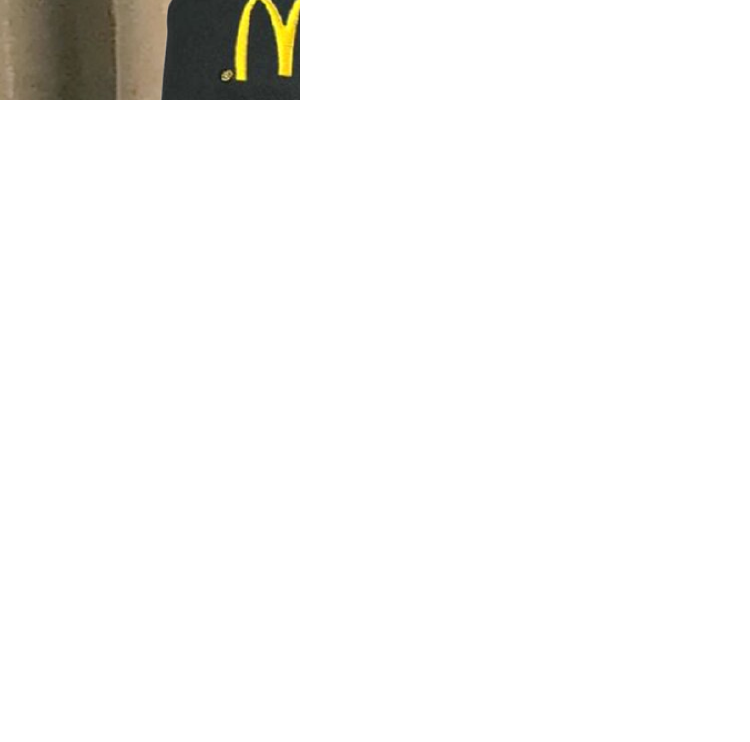
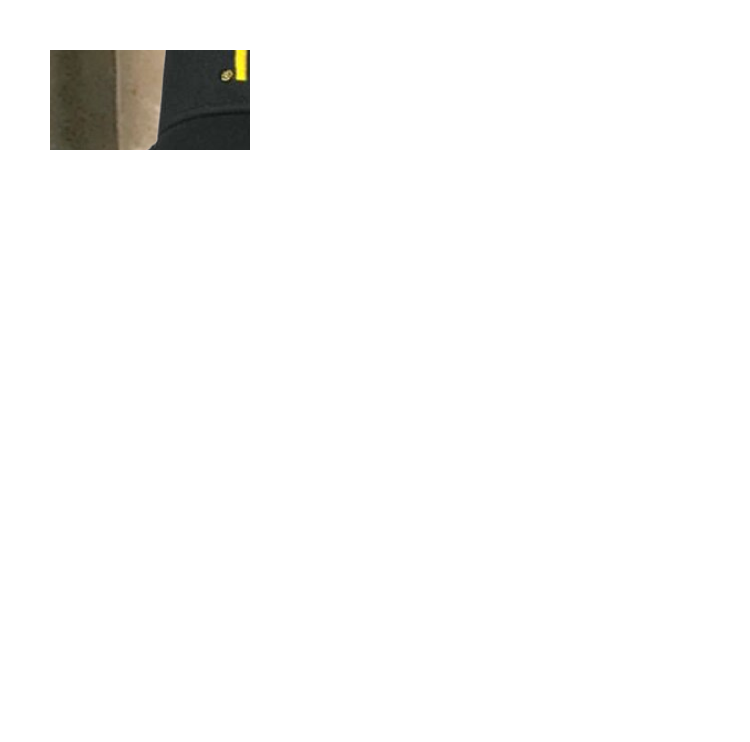
Fixed rectangle clip

Changed region(s): [[0.0, 0.0, 0.3987, 0.217]]

diff --git a/website/html/index.html b/website/html/index.html
@@ -4,26 +4,19 @@
 		<meta charset="UTF-8" />
 		<meta http-equiv="X-UA-Compatible" content="IE=edge" />
 		<meta name="viewport" content="width=device-width, initial-scale=1.0" />
+
 		<script defer src="/js/request.js"></script>
 		<script defer src="/js/editor.js"></script>
+
+		<link rel="stylesheet" href="/css/main.css" />
 		<link rel="stylesheet" href="/css/editor.css" />
+
 		<title>Document</title>
 		<link rel="preconnect" href="https://fonts.googleapis.com" />
 		<link rel="preconnect" href="https://fonts.gstatic.com" crossorigin />
 		<link href="https://fonts.googleapis.com/css2?family=Poppins:wght@500&display=swap" rel="stylesheet" />
 	</head>
 	<body>
-		<img id="img" src="" alt="" />
-		<form action="" id="form" onsubmit="return false">
-			<input name="Image" onchange="getImage()" type="file" id="img" accept="image/*" />
-			<input type="submit" onclick="getMaskedImage()" />
-		</form>
-
-		<div id="editor" class="editor">
-			<img src="" alt="" class="background" />
-			<div class="visualizer"></div>
-		</div>
-
 		<!-- context menu -->
 		<div class="context-menu">
 			<p class="editor-remove" onclick="removeShape();">Remove</p>
@@ -31,6 +24,22 @@
 				<label for="opacity">Opcaity:</label>
 				<input name="opacity" type="range" oninput="changeOpacity(this);" />
 			</div>
+		</div>
+
+		<form action="" id="form" class="center" onsubmit="return false">
+			<input name="Image" onchange="getImage()" type="file" id="img" accept="image/*" />
+			<input type="submit" onclick="getMaskedImage()" />
+		</form>
+
+		<div class="editor-container center">
+			<div id="editor" class="editor">
+				<img src="" alt="" class="background" />
+				<div class="visualizer"></div>
+			</div>
+		</div>
+
+		<div class="preview center">
+			<img id="preview" src="" alt="" />
 		</div>
 	</body>
 </html>

diff --git a/website/js/request.js b/website/js/request.js
@@ -23,7 +23,7 @@ async function getMaskedImage() {
 	const blob = await res.blob();
 	const reader = new FileReader();
 	reader.onloadend = () => {
-		document.getElementById("img").src = reader.result;
+		document.getElementById("preview").setAttribute("src", reader.result);
 	};
 
 	reader.readAsDataURL(blob);
@@ -46,7 +46,9 @@ function getImage() {
 			document.querySelector(".background").src = reader.result;
 			editor.style.width = maxHeight * ImageRatio + "vw";
 			editor.style.height = maxHeight + "vw";
+			editor.style.display = "flex";
 		};
+
 		img.src = reader.result;
 	};
 

diff --git a/website/css/main.css b/website/css/main.css
@@ -1,0 +1,38 @@
+* {
+	margin: 0;
+	padding: 0;
+	box-sizing: border-box;
+}
+
+body {
+	display: flex;
+	flex-direction: column;
+	align-items: center;
+}
+
+.center {
+	display: flex;
+	justify-content: center;
+	align-items: center;
+}
+
+#form {
+	width: 80%;
+	height: 20vh;
+	background-color: rgba(20, 10, 70, 0.2);
+}
+
+.editor-container {
+	width: 80%;
+	/* min-height: 40vh; */
+	border: 1px solid black;
+}
+
+.preview {
+	border: 1px solid black;
+	width: 80%;
+}
+
+.preview img {
+	max-height: 35vw;
+}

diff --git a/website/css/editor.css b/website/css/editor.css
@@ -1,9 +1,3 @@
-* {
-	margin: 0;
-	padding: 0;
-	box-sizing: border-box;
-}
-
 .editor {
 	height: 35vw;
 	margin: auto;
@@ -12,12 +6,15 @@
 	background: rgba(255, 255, 255, 0.1);
 	background-position: center;
 	background-size: cover;
+
+	display: none;
 }
 
 .background {
 	width: 100%;
 	height: 100%;
 	opacity: 30%;
+	pointer-events: none;
 }
 
 .rectangle,

diff --git a/img/mask.go b/img/mask.go
@@ -41,15 +41,9 @@ type Mask struct {
 
 // Draws rect shape to mask
 func (m *Mask) drawRect(shape Shape) {
-	point := image.Point(shape.Pos)
-
-	// Fill rect
-	shapeRect := image.NewRGBA(shape.rect())
+	// Draw uniform rect to mask at shapes point
 	col := color.RGBA{0, 0, 0, uint8(shape.Opacity)}
-	draw.Draw(shapeRect, shapeRect.Bounds(), &image.Uniform{col}, image.Pt(0, 0), draw.Over)
-
-	// Draw rect to incomplete mask
-	draw.Draw(m, shapeRect.Bounds(), shapeRect, point, draw.Over)
+	draw.Draw(m, shape.rect(), &image.Uniform{col}, image.Pt(0, 0), draw.Src)
 }
 
 // Draws circle shape to mask

diff --git a/img/img.go b/img/img.go
@@ -27,7 +27,11 @@ type Shape struct {
 
 // Get image rect of shape
 func (s *Shape) rect() image.Rectangle {
-	return image.Rect(s.Pos.X, s.Pos.Y, s.Size.X, s.Size.Y)
+	// x1 y1 is origin
+	// second args are second position but here a width/height is used
+	// therefore the position x2 and y2 needs to be shifted by x1 and y1 to
+	// represent a width/height
+	return image.Rect(s.Pos.X, s.Pos.Y, s.Size.X + s.Pos.X, s.Size.Y + s.Pos.Y)
 }
 
 // Load from filename

diff --git a/main.go b/main.go
@@ -29,9 +29,9 @@ func main() {
 
 	// mask := img.GetMask(i.Bounds(), []img.Shape{
 	// 	{
-	// 		Type: 0,
-	// 		Pos: img.Vector{X: 0, Y: 0},
-	// 		Size: img.Vector{X: 300, Y: 100},
+	// 		Type:    0,
+	// 		Pos:     img.Vector{X: 50, Y: 50},
+	// 		Size:    img.Vector{X: 200, Y: 100},
 	// 		Opacity: 255,
 	// 	},
 	// })
